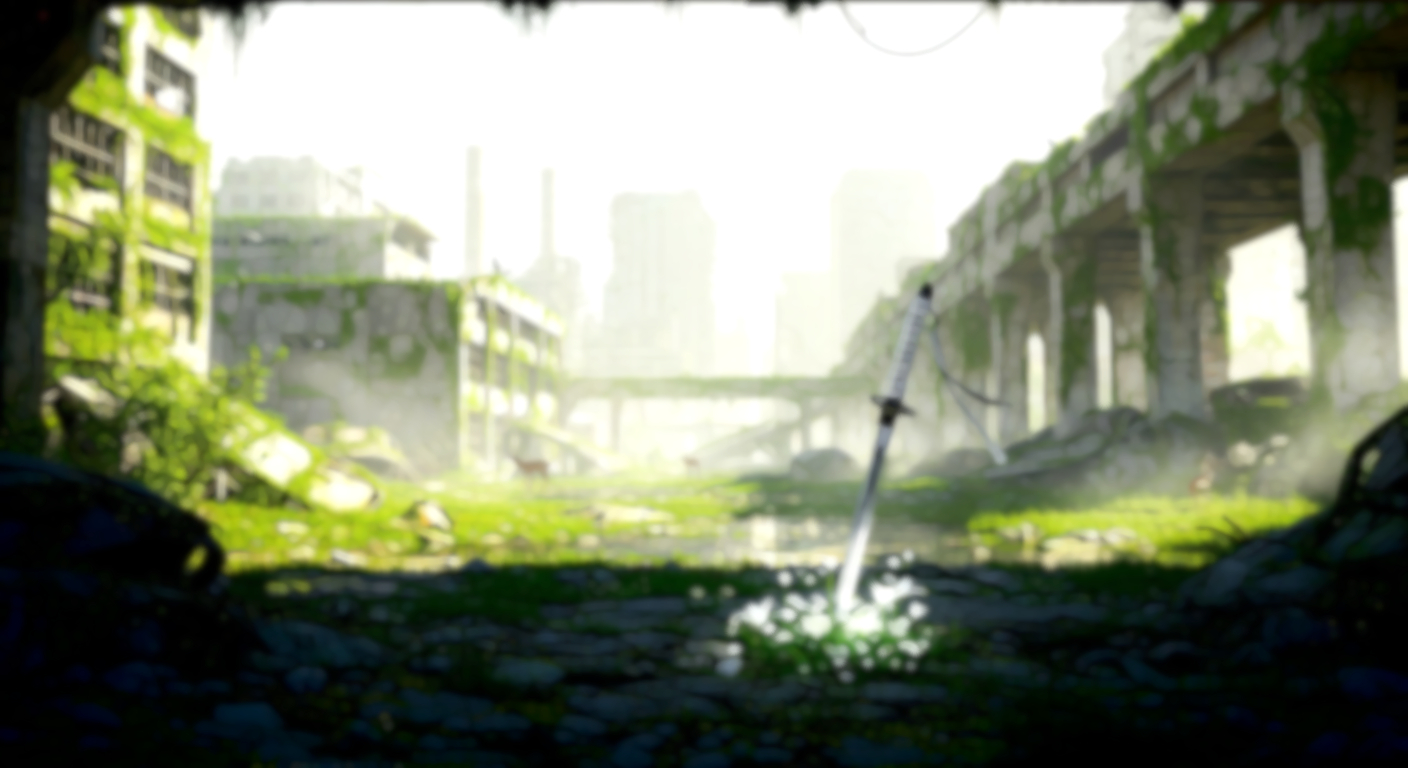
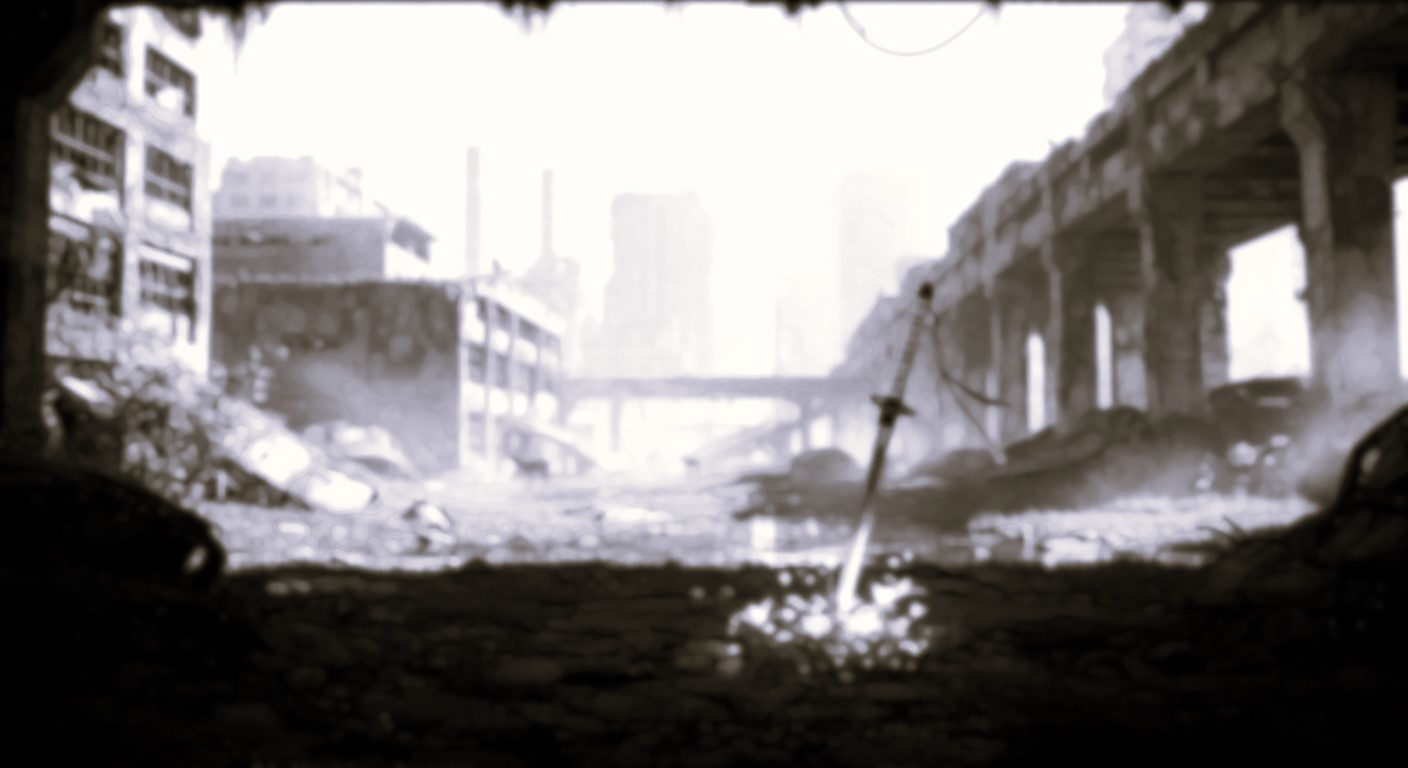
images changed

diff --git a/styles/styles.css b/styles/styles.css
@@ -16,6 +16,7 @@
    padding: 0;
    box-sizing: border-box;
   font-family: Cascadia Mono;
+  font-weight: 500;
 }
 
 body {
@@ -162,7 +163,7 @@ body {
    width: 100%;
    height: 100%;
    min-height: 100vh;
-   background-image: url('/assets/background/backgroundimage.jpg');
+   background-image: url('/assets/background/skybackground.jpg');
    background-size: cover;
    background-position: center;
    z-index: -1;
@@ -174,7 +175,8 @@ body {
    left: 0;
    width: 100%;
    height: 100%;
-   background-color: rgba(240, 240, 240, 0.153);
+   background-color: rgba(255, 255, 255, 0.388);
+   backdrop-filter: blur(6px);
    z-index: -1;
    pointer-events: none;
    will-change: transform;
